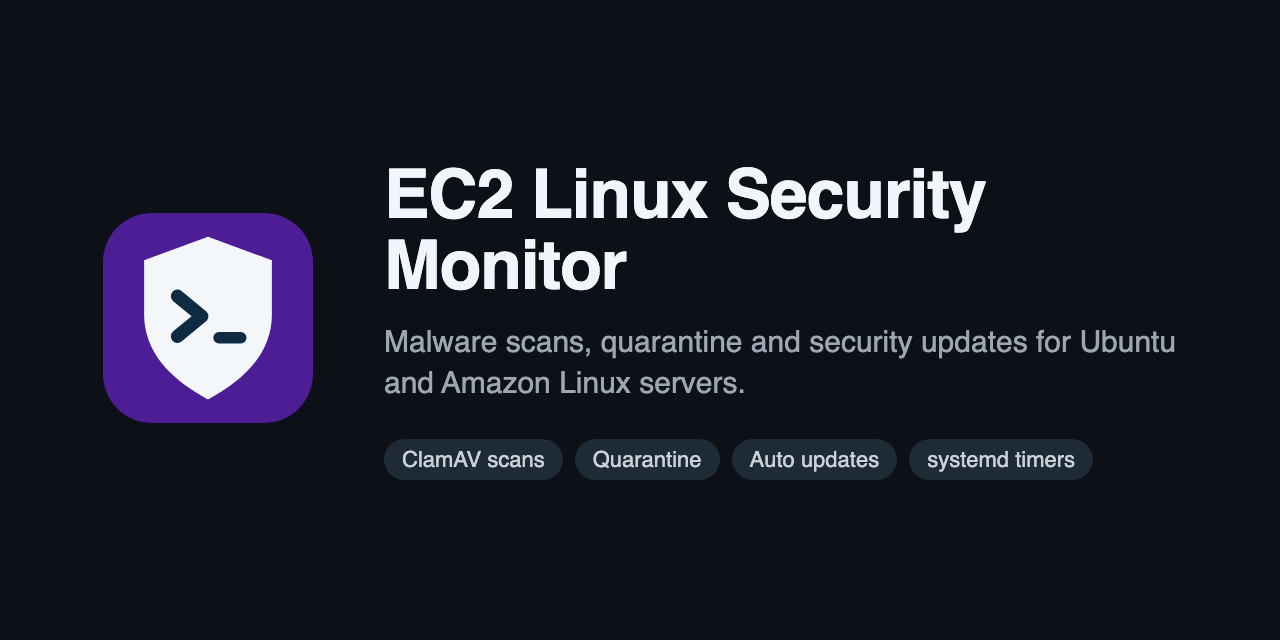
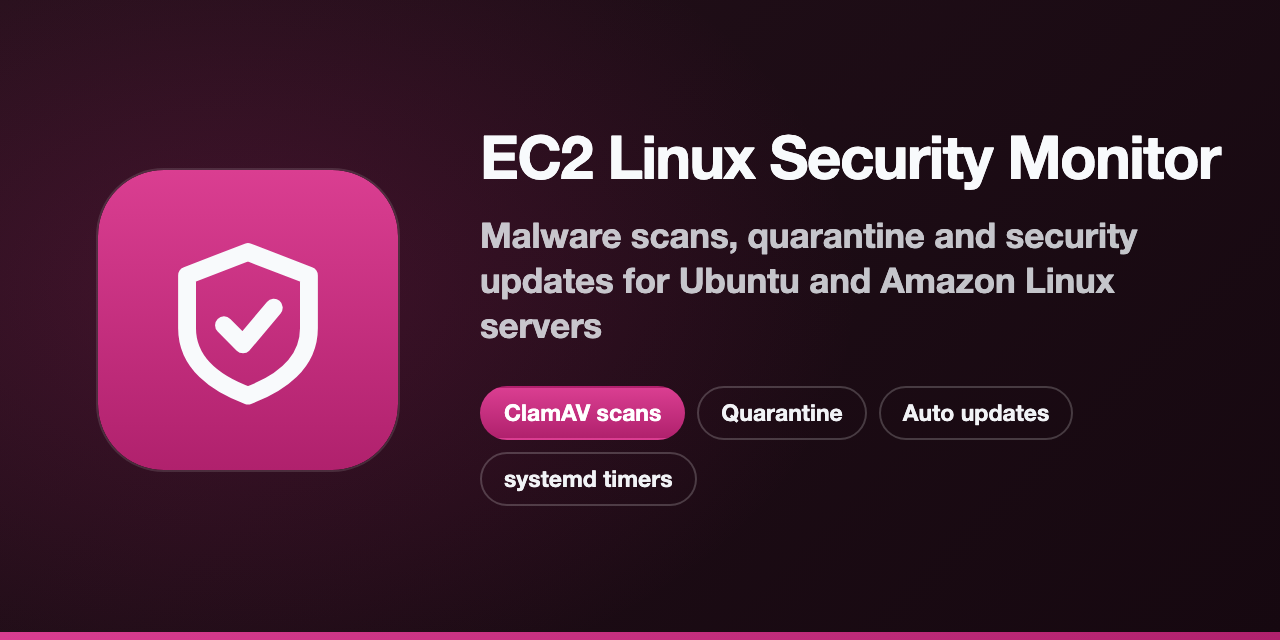
docs: use the shared brand tile and render the social preview with a vendored brand kit

diff --git a/tools/brand/brand_kit.py b/tools/brand/brand_kit.py
@@ -1,0 +1,181 @@
+#!/usr/bin/env python3
+"""Vendored copy of the CaputoDavide93 brand kit, trimmed to this repo: one icon tile + one social preview layout for every repo.
+
+  python3 brand_kit.py icon   --repo NAME [--out DIR] [--sizes 256,64]
+  python3 brand_kit.py icon   --glyph FILE --hue 200 --out DIR
+  python3 brand_kit.py social --repo NAME --tagline TEXT --chip A --chip B [--icon icon.svg] --out out.png
+  python3 brand_kit.py sheet  [--repos A,B,...] --out sheet.png
+  python3 brand_kit.py all    [--out DIR]
+Needs headless Google Chrome and Pillow. Rendering is deterministic; PNG metadata is stripped.
+"""
+import argparse, colorsys, html, os, pathlib, subprocess, sys, tempfile
+from PIL import Image
+
+HERE = pathlib.Path(__file__).resolve().parent
+CHROME = os.environ.get("CHROME", "/Applications/Google Chrome.app/Contents/MacOS/Google Chrome")
+INK = "#F8FAFC"
+
+# Family order. Hue steps by 12 slots (12 is coprime with 29), so every repo gets its own
+# hue and neighbours in this list are ~140 degrees apart. Slots span 100..400 degrees: the
+# muddy 40-100 yellow/olive band, where a white glyph cannot hold contrast, is skipped.
+REPOS = ["EC2-Linux-Security-Monitor"]
+def hue_of(repo):
+    return 328  # fixed hue for this repo; the shared kit assigns it by family position
+    return round((START + ((i * STEP + OFFSET) % SLOTS) * SPAN / SLOTS) % 360)
+
+# ---- colour -----------------------------------------------------------------
+def _lum(rgb):
+    f = lambda c: c / 12.92 if c <= .03928 else ((c + .055) / 1.055) ** 2.4
+    r, g, b = (f(c) for c in rgb)
+    return .2126 * r + .7152 * g + .0722 * b
+def _hex(h, s, l):
+    r, g, b = colorsys.hls_to_rgb(h / 360, l, s)
+    return "#%02X%02X%02X" % (round(r * 255), round(g * 255), round(b * 255)), (r, g, b)
+def _contrast(rgb):  # against near-white ink
+    return (_lum((.97, .98, .99)) + .05) / (_lum(rgb) + .05)
+def palette(hue):
+    """(top, bottom, mid) hex. Same saturation, lightness 54/40; yellows and greens are
+    darkened just enough that the white glyph keeps 3.2:1 (top) and 4.5:1 (bottom)."""
+    s, lt, lb = .68, .55, .41
+    while _contrast(_hex(hue, s, lt)[1]) < 3.2 and lt > .30: lt -= .01
+    while _contrast(_hex(hue, s, lb)[1]) < 4.5 and lb > .20: lb -= .01
+    lb = min(lb, lt - .12)
+    return _hex(hue, s, lt)[0], _hex(hue, s, lb)[0], _hex(hue, s, (lt + lb) / 2)[0]
+def dark_bg(hue):
+    return _hex(hue, .38, .10)[0], _hex(hue, .45, .06)[0]
+
+# ---- rendering --------------------------------------------------------------
+def render(html_doc, w, h, out, transparent=False):
+    with tempfile.TemporaryDirectory() as td:
+        p = pathlib.Path(td) / "p.html"
+        p.write_text(html_doc)
+        shot = pathlib.Path(td) / "s.png"
+        cmd = [CHROME, "--headless=new", "--disable-gpu", "--hide-scrollbars", "--no-sandbox",
+               "--force-device-scale-factor=1", f"--window-size={w},{h}",
+               "--virtual-time-budget=3000", f"--screenshot={shot}", f"file://{p}"]
+        if transparent: cmd.insert(2, "--default-background-color=00000000")
+        subprocess.run(cmd, check=True, capture_output=True)
+        im = Image.open(shot).convert("RGBA" if transparent else "RGB")
+    # fresh image = no metadata chunks
+    clean = Image.new(im.mode, im.size); clean.paste(im)
+    pathlib.Path(out).parent.mkdir(parents=True, exist_ok=True)
+    clean.save(out, optimize=True)
+    return clean
+
+def icon_svg(glyph_fragment, hue):
+    top, bot, _ = palette(hue)
+    gid = f"g{hue}"
+    return (f'<svg xmlns="http://www.w3.org/2000/svg" viewBox="0 0 1024 1024" width="1024" height="1024">'
+            f'<defs><linearGradient id="{gid}" x1="0" y1="0" x2="0" y2="1">'
+            f'<stop offset="0" stop-color="{top}"/><stop offset="1" stop-color="{bot}"/></linearGradient></defs>'
+            f'<rect width="1024" height="1024" rx="225" fill="url(#{gid})"/>\n{glyph_fragment.strip()}\n</svg>\n')
+
+def make_icon(glyph_svg_fragment, hue, out_svg, out_png_sizes=(256,)):
+    """glyph fragment is drawn in a 1024 space; out_png_sizes -> files icon-<n>.png beside out_svg
+    (a dict {size: path} is also accepted)."""
+    out_svg = pathlib.Path(out_svg).resolve(); out_svg.parent.mkdir(parents=True, exist_ok=True)
+    svg = icon_svg(glyph_svg_fragment, hue); out_svg.write_text(svg)
+    sizes = out_png_sizes if isinstance(out_png_sizes, dict) else {n: out_svg.parent / f"icon-{n}.png" for n in out_png_sizes}
+    if sizes:
+        big = render(f'<body style="margin:0;background:transparent"><img src="file://{out_svg}" width=1024 height=1024 style="display:block">',
+                     1024, 1024, out_svg.parent / ".icon-1024.tmp.png", transparent=True)
+        (out_svg.parent / ".icon-1024.tmp.png").unlink()
+        for n, path in sizes.items():
+            c = big.resize((int(n), int(n)), Image.LANCZOS)
+            pathlib.Path(path).parent.mkdir(parents=True, exist_ok=True)
+            c.save(path, optimize=True)
+    return svg
+
+def make_social(name, tagline, chips, icon_svg_path, hue, out_png):
+    """1280x640, tile left, name, tagline, chips, hue stripe. Same layout for every repo."""
+    top, bot, mid = palette(hue); d1, d2 = dark_bg(hue)
+    chips = list(chips)[:4]
+    chip_html = "".join(f'<span class="c{" f" if i == 0 else ""}">{html.escape(c)}</span>' for i, c in enumerate(chips))
+    doc = f'''<!doctype html><meta charset=utf-8><style>
+*{{box-sizing:border-box;margin:0}}
+body{{width:1280px;height:640px;overflow:hidden;font-family:"Helvetica Neue",Helvetica,Arial,sans-serif;color:{INK};
+ background:radial-gradient(900px 600px at 18% 45%,{mid}33,transparent 70%),linear-gradient(135deg,{d1},{d2});position:relative}}
+.tile{{position:absolute;left:98px;top:170px;width:300px;height:300px;border-radius:22%;box-shadow:0 0 0 2px #ffffff1f}}
+.txt{{position:absolute;left:480px;top:0;width:740px;height:632px;display:flex;flex-direction:column;justify-content:center}}
+h1{{font-weight:800;letter-spacing:-.025em;line-height:1.02;white-space:nowrap;font-size:96px;margin-bottom:26px}}
+h1.wrap{{white-space:normal;font-size:68px;overflow-wrap:anywhere}}
+p{{font-size:35px;line-height:1.28;font-weight:600;color:#E3E6EBd9;margin-bottom:38px;letter-spacing:-.005em}}
+.chips{{display:flex;gap:12px;flex-wrap:wrap}}
+.c{{font-weight:700;font-size:23px;padding:11px 22px;border-radius:99px;border:2px solid #ffffff33;color:#F1F3F6}}
+.c.f{{background:linear-gradient(180deg,{top},{bot});border-color:transparent;color:#fff}}
+.bar{{position:absolute;left:0;right:0;bottom:0;height:8px;background:linear-gradient(90deg,{top},{bot})}}
+</style><img class=tile src="file://{pathlib.Path(icon_svg_path).resolve()}">
+<div class=txt><h1 id=n>{html.escape(name)}</h1><p>{html.escape(tagline)}</p><div class=chips>{chip_html}</div></div><div class=bar></div>
+<script>const h=document.getElementById('n');let s=96;while(h.scrollWidth>740&&s>60){{s-=2;h.style.fontSize=s+'px'}}
+if(h.scrollWidth>740){{h.className='wrap';h.innerHTML=h.textContent.replace(/-/g,'-<wbr>')}}</script>'''
+    return render(doc, 1280, 640, out_png)
+
+def make_sheet(repos, out_png, icon_dir=None):
+    """Labelled contact sheet: 256 px grids on light and dark, then a 64/32/16 row on both."""
+    icon_dir = pathlib.Path(icon_dir or HERE / "out")
+    def cell(r, bg, fg, px):
+        return (f'<figure><img src="file://{icon_dir / r / "icon.svg"}" width={px} height={px}>'
+                f'<figcaption style="color:{fg}">{html.escape(r)}</figcaption></figure>')
+    def small(r, bg, fg):
+        im = lambda px: f'<img src="file://{icon_dir / r / "icon.svg"}" width={px} height={px}>'
+        return (f'<div class=s style="background:{bg};color:{fg}"><div class=row>{im(64)}{im(32)}{im(16)}</div>'
+                f'<span>{html.escape(r)}</span></div>')
+    L, D = ("#F3F4F6", "#1B1D22"), ("#101218", "#C9CDD6")
+    big = lambda bg, fg, t: (f'<section style="background:{bg}"><h2 style="color:{fg}">{t}</h2><div class=g>'
+                             + "".join(cell(r, bg, fg, 256) for r in repos) + '</div></section>')
+    smalls = ('<section style="background:#fff"><h2 style="color:#1B1D22">64 / 32 / 16 px, light and dark</h2><div class=sg>'
+              + "".join(small(r, L[0], L[1]) + small(r, D[0], D[1]) for r in repos) + '</div></section>')
+    cols = 6
+    doc = f'''<!doctype html><meta charset=utf-8><style>
+*{{box-sizing:border-box;margin:0}} body{{width:1900px;font-family:"Helvetica Neue",Arial,sans-serif}}
+section{{padding:48px 60px}} h2{{font-size:26px;font-weight:700;margin-bottom:28px;letter-spacing:-.01em}}
+.g{{display:grid;grid-template-columns:repeat({cols},1fr);gap:40px 24px}}
+figure{{display:flex;flex-direction:column;align-items:center;gap:12px}} figcaption{{font-size:15px;font-weight:600}}
+.sg{{display:grid;grid-template-columns:repeat(4,1fr);gap:0}}
+.s{{display:flex;align-items:center;justify-content:space-between;padding:14px 22px;font-size:14px;font-weight:600;height:84px}}
+.row{{display:flex;align-items:center;gap:14px;flex:none;margin-right:16px}}
+</style>{big(L[0], L[1], "Light background, 256 px")}{big(D[0], D[1], "Dark background, 256 px")}{smalls}'''
+    # first pass to measure height
+    with tempfile.TemporaryDirectory() as td:
+        p = pathlib.Path(td) / "m.html"; p.write_text(doc + '<script>document.title=document.documentElement.scrollHeight</script>')
+        out = subprocess.run([CHROME, "--headless=new", "--disable-gpu", "--no-sandbox", f"--window-size=1900,800",
+                              "--virtual-time-budget=2000", "--dump-dom", f"file://{p}"], capture_output=True, text=True).stdout
+    import re
+    h = int(re.search(r"<title>(\d+)</title>", out).group(1))
+    return render(doc, 1900, h, out_png)
+
+# ---- CLI --------------------------------------------------------------------
+def _glyph(repo): return (HERE / "glyphs" / f"{repo}.svg").read_text()
+
+def main(argv=None):
+    ap = argparse.ArgumentParser(description=__doc__, formatter_class=argparse.RawDescriptionHelpFormatter)
+    sub = ap.add_subparsers(dest="cmd", required=True)
+    a = sub.add_parser("icon"); a.add_argument("--repo"); a.add_argument("--glyph"); a.add_argument("--hue", type=int)
+    a.add_argument("--out", default="."); a.add_argument("--sizes", default="256")
+    b = sub.add_parser("social"); b.add_argument("--repo"); b.add_argument("--name"); b.add_argument("--tagline", required=True)
+    b.add_argument("--chip", action="append", default=[]); b.add_argument("--icon", default="docs/assets/brand/icon.svg")
+    b.add_argument("--hue", type=int); b.add_argument("--out", default="docs/assets/social-preview.png")
+    c = sub.add_parser("sheet"); c.add_argument("--repos"); c.add_argument("--out", default="family-sheet.png")
+    c.add_argument("--icons", help="dir holding <repo>/icon.svg")
+    d = sub.add_parser("all"); d.add_argument("--out", default=str(HERE / "out"))
+    n = ap.parse_args(argv)
+    if n.cmd == "icon":
+        frag = pathlib.Path(n.glyph).read_text() if n.glyph else _glyph(n.repo)
+        hue = n.hue if n.hue is not None else hue_of(n.repo)
+        sizes = [int(x) for x in n.sizes.split(",") if x]
+        make_icon(frag, hue, pathlib.Path(n.out) / "icon.svg", sizes)
+    elif n.cmd == "social":
+        hue = n.hue if n.hue is not None else hue_of(n.repo)
+        make_social(n.name or n.repo, n.tagline, n.chip, n.icon, hue, n.out)
+    elif n.cmd == "sheet":
+        repos = n.repos.split(",") if n.repos else REPOS
+        make_sheet(repos, n.out, n.icons)
+    else:
+        out = pathlib.Path(n.out)
+        for r in REPOS:
+            make_icon(_glyph(r), hue_of(r), out / r / "icon.svg", [256])
+        make_sheet(REPOS, out / "family-sheet.png", out)
+        print("hue table:"); [print(f"  {r:34s}{hue_of(r):4d}") for r in REPOS]
+
+if __name__ == "__main__":
+    sys.exit(main())

diff --git a/README.md b/README.md
@@ -1,6 +1,6 @@
 <div align="center">
 
-<img src="docs/assets/brand/icon.svg" width="96" alt="EC2 Linux Security Monitor icon: a shield with a terminal prompt">
+<img src="docs/assets/brand/icon.svg" width="96" alt="EC2 Linux Security Monitor icon: a shield with a check mark">
 
 # 🛡 EC2 Linux Security Monitor
 
@@ -320,12 +320,12 @@ EC2-Linux-Security-Monitor/
 │   └── troubleshooting.md    # 🛠 by symptom
 ├── tools/
 │   ├── gen_diagram.py        # 🖌 draws the diagrams
-│   ├── social_preview.py     # 🖼 draws the social preview image
+│   ├── brand/                # 🎨 vendored brand kit: icon check and social preview
 │   └── screenshots/          # 📸 dashboard screenshots from the real script
 ├── security-monitor.sh       # 🛡 scanning, quarantine, alerting, dashboard
 ├── security-manager.sh       # 🔧 install, uninstall, health check
 ├── security-monitor.conf     # ⚙ default config, installed to /etc/security-monitor/
-├── Makefile                  # ✅ make check, diagram, screenshots
+├── Makefile                  # ✅ make check, diagram, icon-check, screenshots, social-preview
 ├── llms.txt                  # 🔎 one-page summary for AI search
 ├── AGENTS.md                 # 🤖 rules for coding agents
 ├── CLAUDE.md                 # 🤖 imports AGENTS.md for Claude Code
